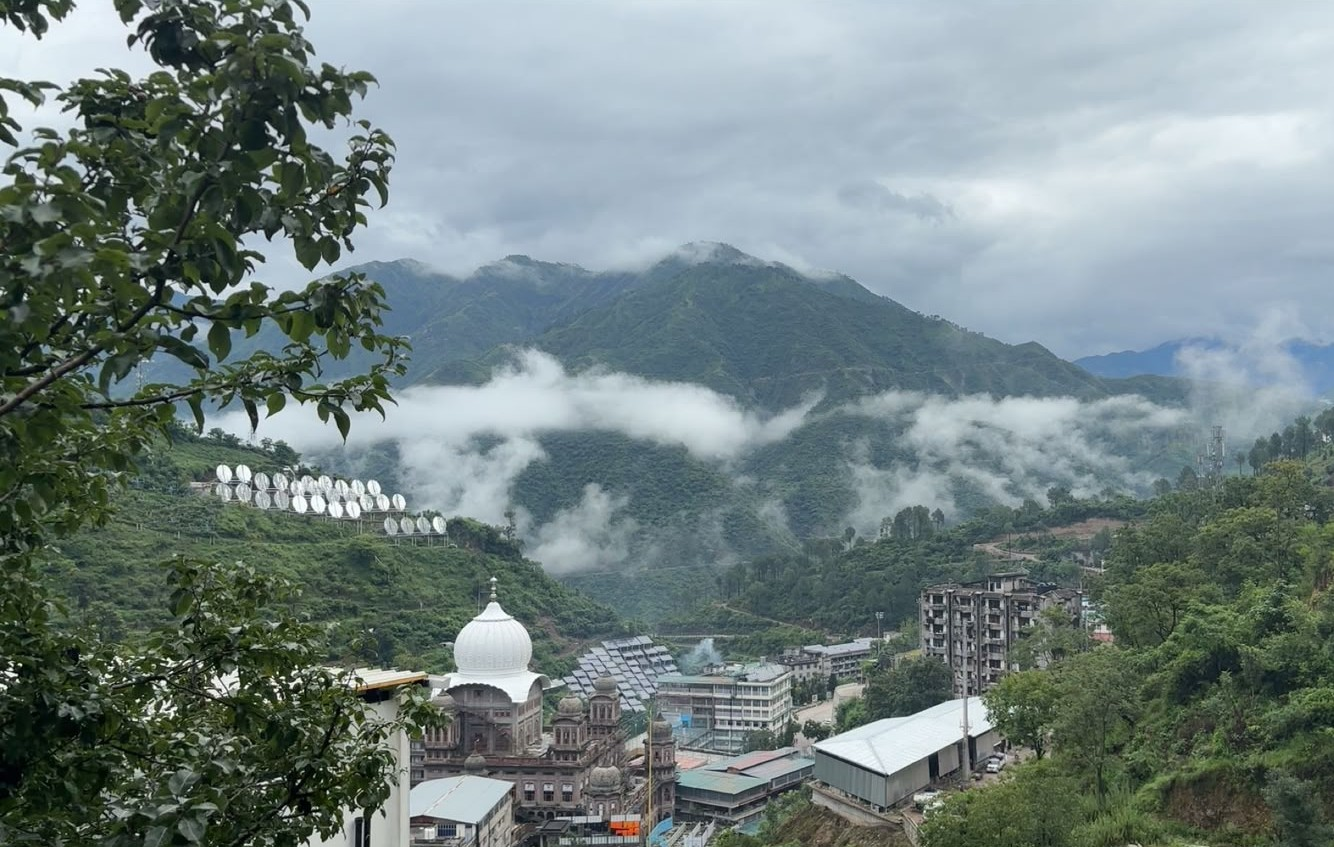
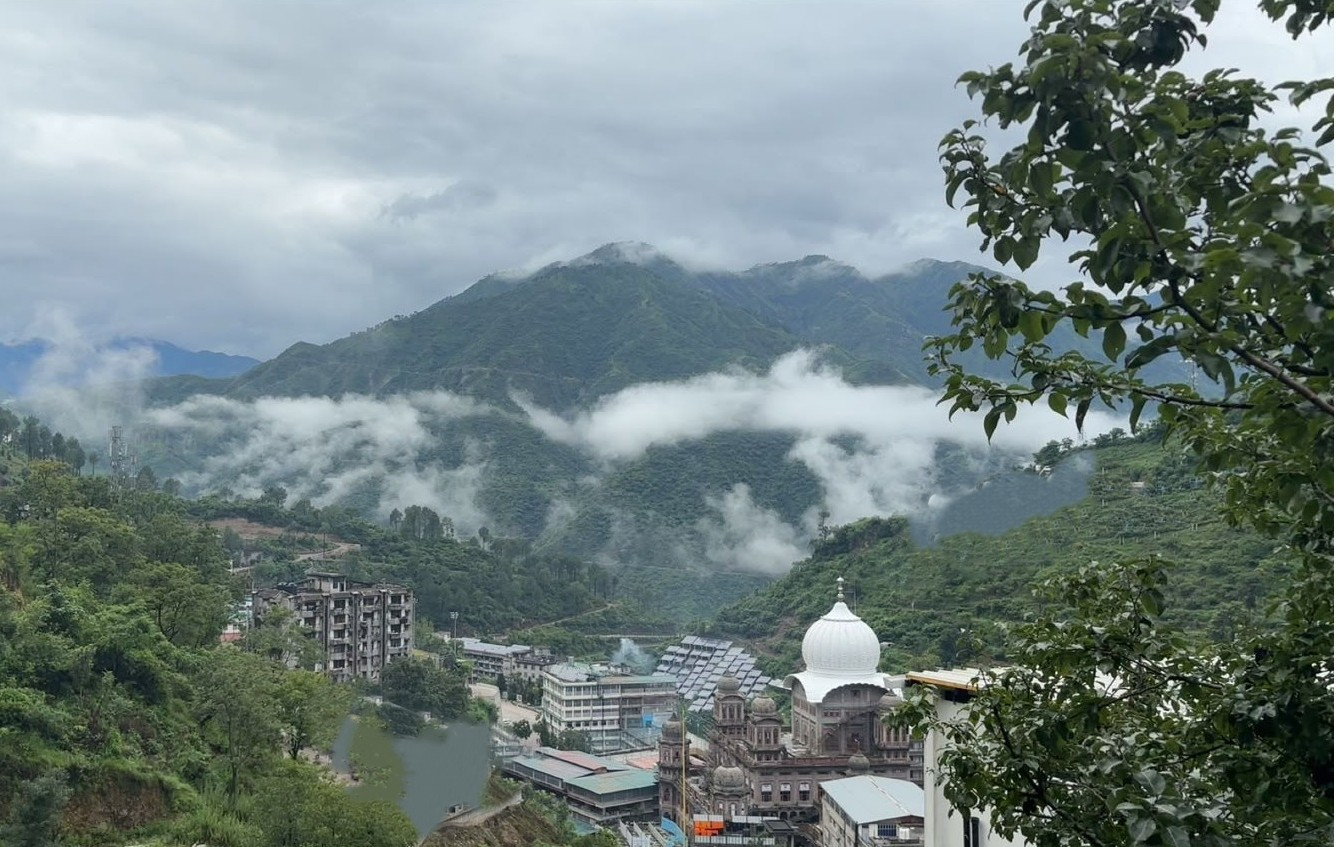
Refresh landing CTA and login photography; gold accent returns to login panel
New valley photographs for the CTA band and login panel, lighter CTA scrim,
and a text-weighted login tint (dark at headline and ledger, clear middle)
with the brass/gold accent kept on the login page only.

diff --git a/src/pages/LoginPage.tsx b/src/pages/LoginPage.tsx
@@ -16,8 +16,8 @@ const fieldStyle = (err?: string): React.CSSProperties => ({
 });
 
 // The left panel always sits over a dark photo, so its accents are fixed
-// light-on-dark regardless of the app theme — the blue accent's dark-mode ink.
-const PANEL_ACCENT = '#7cabff';
+// light-on-dark regardless of the app theme — the old brass/gold, kept only on this page.
+const PANEL_ACCENT = '#d8b25a';
 const EASE = [0.16, 1, 0.3, 1] as const;
 
 const PROOF: [string, string][] = [
@@ -76,7 +76,8 @@ const LoginPage: React.FC = () => {
           style={{ position: 'relative', overflow: 'hidden', display: 'flex', flexDirection: 'column', justifyContent: 'space-between', padding: 44 }}
         >
           <img src="/login_panel.jpg" alt="" aria-hidden loading="lazy" width={1339} height={847} style={{ position: 'absolute', inset: 0, width: '100%', height: '100%', objectFit: 'cover' }} />
-          <div aria-hidden style={{ position: 'absolute', inset: 0, background: 'linear-gradient(165deg, rgba(9,11,16,.18) 0%, rgba(9,11,16,.30) 55%, rgba(9,11,16,.46) 100%)' }} />
+          {/* base wash + extra weight behind the headline (top) and proof ledger (bottom) */}
+          <div aria-hidden style={{ position: 'absolute', inset: 0, background: 'linear-gradient(to bottom, rgba(9,11,16,.50) 0%, rgba(9,11,16,.16) 34%, rgba(9,11,16,.16) 56%, rgba(9,11,16,.68) 100%), linear-gradient(165deg, rgba(9,11,16,.16) 0%, rgba(9,11,16,.22) 100%)' }} />
 
           {/* Top: identity */}
           <motion.div

diff --git a/src/pages/LandingPage.tsx b/src/pages/LandingPage.tsx
@@ -528,12 +528,12 @@ const LandingPage: React.FC = () => {
         <Reveal delay={0.05} style={{ position: 'relative', borderRadius: 22, overflow: 'hidden', border: '1px solid var(--border)' }}>
           {/* slow Ken Burns drift on the campus photograph */}
           <motion.img
-            src="/baru_sahib.jpg" alt="" aria-hidden loading="lazy" width={1600} height={1000}
+            src="/cta_banner.jpg" alt="" aria-hidden loading="lazy" width={1516} height={910}
             style={{ position: 'absolute', inset: 0, width: '100%', height: '100%', objectFit: 'cover' }}
             animate={{ scale: [1, 1.07] }}
             transition={{ duration: 22, repeat: Infinity, repeatType: 'mirror', ease: 'linear' }}
           />
-          <div aria-hidden style={{ position: 'absolute', inset: 0, background: 'linear-gradient(105deg, rgba(9,11,16,.74) 0%, rgba(9,11,16,.52) 46%, rgba(9,11,16,.18) 100%)' }} />
+          <div aria-hidden style={{ position: 'absolute', inset: 0, background: 'linear-gradient(105deg, rgba(9,11,16,.58) 0%, rgba(9,11,16,.36) 46%, rgba(9,11,16,.08) 100%)' }} />
           <div style={{ position: 'relative', padding: 'clamp(34px,5vw,60px)', maxWidth: 640 }}>
             <div style={{ display: 'flex', alignItems: 'center', gap: 8, marginBottom: 16 }}>
               <motion.span